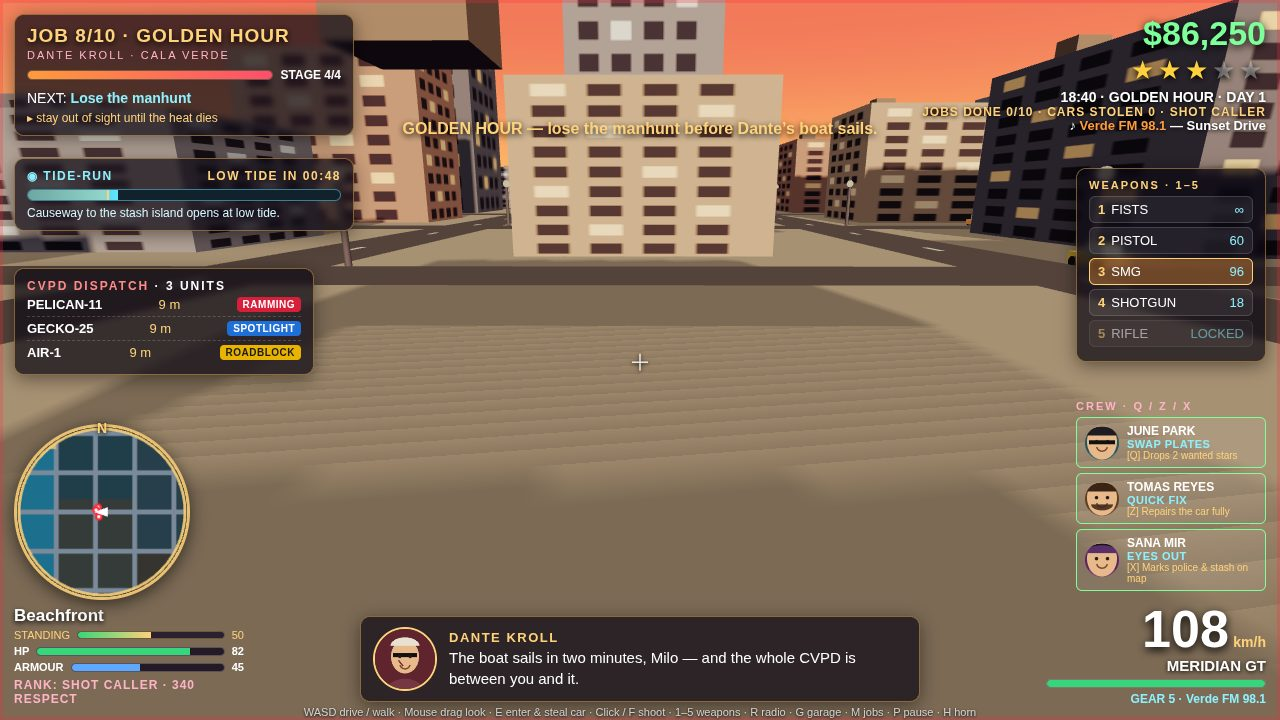
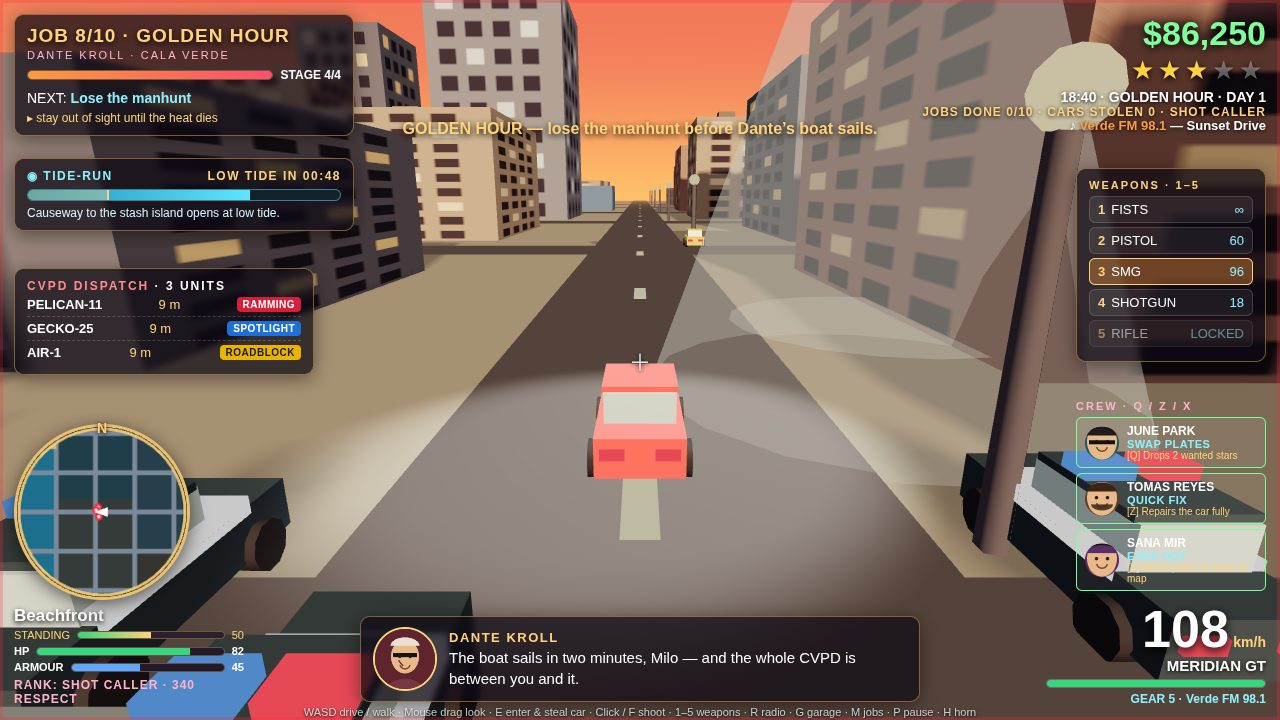
Fix tide sign, frozen-shot camera focus, heli framing; final screenshots

diff --git a/game/src/police.js b/game/src/police.js
@@ -115,10 +115,10 @@ export function buildHeli(G) {
   const tail = new THREE.Mesh(new THREE.BoxGeometry(0.5, 0.5, 4.5), bodyMat);
   tail.position.set(0, 0.3, -4.2); g.add(tail);
   // Spotlight cone: a translucent cone from the belly to the ground.
-  const coneGeo = new THREE.ConeGeometry(7, 34, 18, 1, true);
+  const coneGeo = new THREE.ConeGeometry(7, 20, 18, 1, true);
   const coneMat = new THREE.MeshBasicMaterial({ color: 0xfff6c8, transparent: true, opacity: 0.30, side: THREE.DoubleSide, depthWrite: false });
   const cone = new THREE.Mesh(coneGeo, coneMat);
-  cone.position.y = -17;
+  cone.position.y = -10;
   g.add(cone);
   const spot = new THREE.SpotLight(0xfff6c8, 2.2, 90, 0.32, 0.4, 1);
   spot.position.set(0, -1, 0);
@@ -142,7 +142,7 @@ export function updateHeli(G, dt) {
   heli.visible = show;
   if (!show) { G.heliSnapped = false; return; }
   if (!G.heliSnapped) {
-    heli.position.set(s.player.x + 18, 34, s.player.z - 10);
+    heli.position.set(s.player.x + 14, 20, s.player.z - 8);
     G.heliSnapped = true;
   }
   const t = s.time * 0.45;
@@ -150,7 +150,7 @@ export function updateHeli(G, dt) {
   const tz = s.player.z + Math.cos(t) * 16;
   heli.position.x += (tx - heli.position.x) * Math.min(1, dt * 1.4);
   heli.position.z += (tz - heli.position.z) * Math.min(1, dt * 1.4);
-  heli.position.y = 34 + Math.sin(s.time * 0.8) * 1.5;
+  heli.position.y = 20 + Math.sin(s.time * 0.8) * 1.5;
   heli.rotation.y = Math.atan2(s.player.x - heli.position.x, s.player.z - heli.position.z);
   heli.userData.rotor.rotation.y += dt * 22;
   heli.userData.spot.target.position.set(s.player.x, 0, s.player.z);

diff --git a/game/src/hud.js b/game/src/hud.js
@@ -2,7 +2,7 @@
 // stars, weapon slots, crew cards, dialogue portraits, speedometer, radio,
 // prompts and toasts — plus the garage / weapon-shop panel and its buying.
 import { CITY, DISTRICTS, CREW, SPEAKERS, RADIO, RANKS, rankFor, fmtCash, fmtClock, fmtTime, clamp, dist2 } from './config.js';
-import { districtAt, isLowTide, secondsToLowTide, secondsLowTideLeft } from './world.js';
+import { districtAt, isLowTide, secondsToLowTide, secondsLowTideLeft, tideLevel } from './world.js';
 import { dispatchList } from './police.js';
 import { currentJob, stageOf } from './missions.js';
 import { CAR_DEFS, WEAPON_DEFS } from './config.js';
@@ -231,7 +231,7 @@ export function updateHUD(G) {
   const low = isLowTide(s.tidePhase);
   const gauge = el('tide-gauge');
   if (gauge) {
-    const level = (Math.cos((s.tidePhase - TIDE.lowAt) * Math.PI * 2) + 1) / 2;
+    const level = (tideLevel(s.tidePhase) + 1) / 2;
     gauge.style.width = Math.round(level * 100) + '%';
     gauge.style.background = low ? 'linear-gradient(90deg,#e8b400,#ffd27a)' : 'linear-gradient(90deg,#1e90b8,#5ee6ff)';
   }

diff --git a/game/src/main.js b/game/src/main.js
@@ -288,6 +288,12 @@ function frame(now) {
   // Staged screenshots: hold the composed frame still — the heli, camera and
   // HUD settle, but no car drives into a roadblock while the shot is taken.
   if (G.shotFreeze) {
+    G.focusPoint = { x: G.state.player.x, z: G.state.player.z };
+    if (G.playerMesh) {
+      G.playerMesh.position.set(G.state.player.x, 0, G.state.player.z);
+      G.playerMesh.rotation.y = G.state.player.yaw;
+      G.playerMesh.visible = G.state.player.onFoot;
+    }
     updateHeli(G, 0.016);
     updateChaseCamera(G, 0.016);
     updateHUD(G);

diff --git a/game/src/world.js b/game/src/world.js
@@ -251,7 +251,7 @@ export function buildCity(G) {
 
 export function tideLevel(phase) {
   // -1 at low tide, +1 at high tide. Low tide centres on TIDE.lowAt.
-  return Math.cos((phase - TIDE.lowAt) * Math.PI * 2);
+  return -Math.cos((phase - TIDE.lowAt) * Math.PI * 2);
 }
 
 export function isLowTide(phase) {
